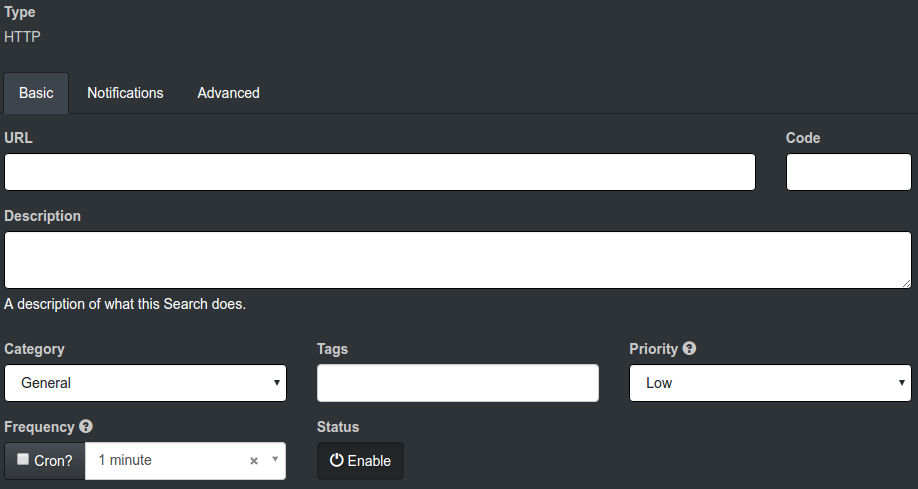
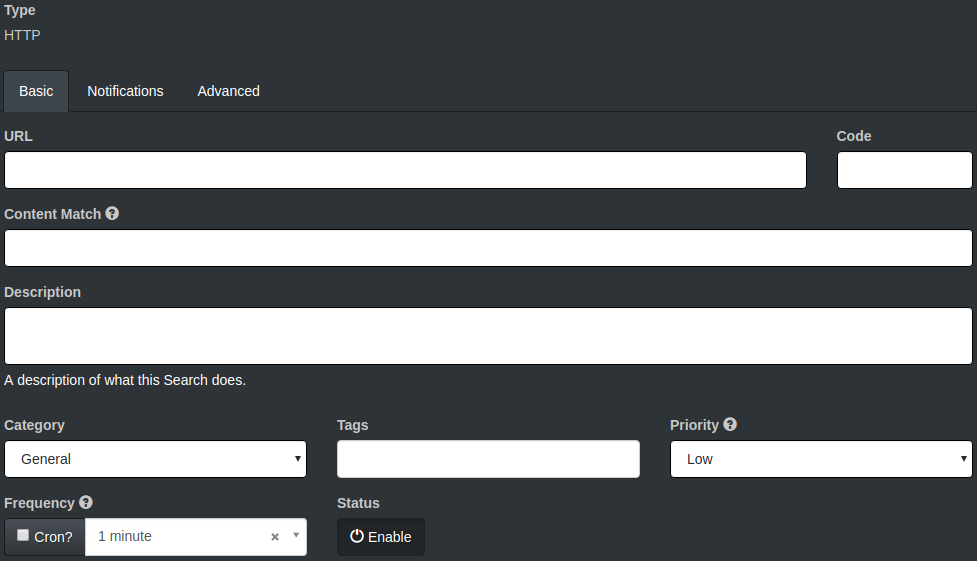
Update documentation adding content match field for HTTP searches

diff --git a/docs/Searches.md b/docs/Searches.md
@@ -117,12 +117,13 @@ Queries [ThreatExchange](https://developers.facebook.com/products/threat-exchang
 
 ![HTTP Search](/docs/imgs/search_http.png?raw=true)
 
-Executes a HTTP `GET` request against a URL. If the response code is unexpected, generates an Alert.
+Executes a HTTP `GET` request against a URL. If the response code and/or response content is unexpected, generates an Alert.
 
 #### Additional Fields ####
 
 - URL: The URL to test.
 - Code: The expected HTTP response code.
+- Content Match: The expected HTTP response content based on some regular expression.
 
 
 ### Ping ###
